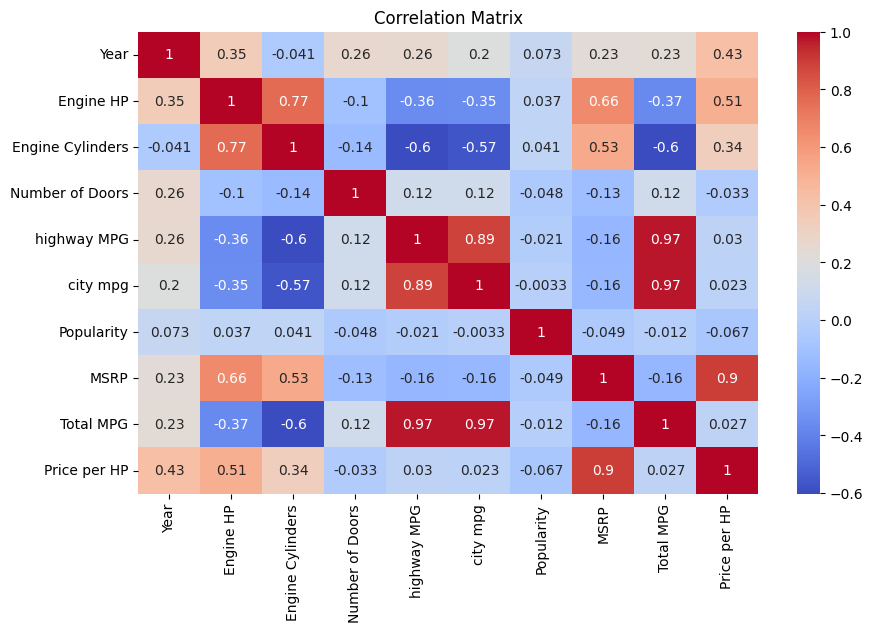
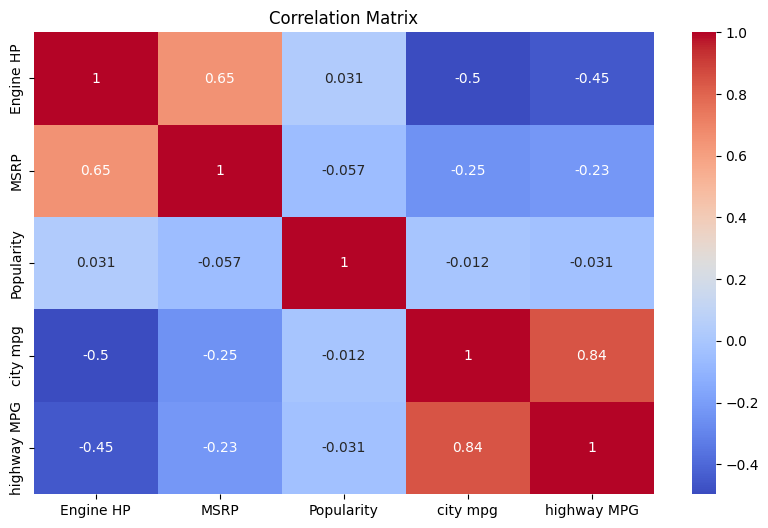
Correlation heatmap updated

diff --git a/report/car_analysis_report.html b/report/car_analysis_report.html
@@ -221,11 +221,11 @@
     <h3>Key Findings</h3>
     <table style="margin-top:10px">
       <tr><th>Variable Pair</th><th>Correlation</th><th>Strength</th><th>Interpretation</th></tr>
-      <tr><td>city mpg ↔ highway MPG</td><td>+0.887</td><td><span class="corr-strong">Strong ✓</span></td><td>Cars efficient in the city are nearly always efficient on highways — both measure the same underlying fuel efficiency</td></tr>
-      <tr><td>Engine HP ↔ MSRP</td><td>+0.661</td><td><span class="corr-strong">Moderate–Strong ✓</span></td><td>More powerful engines command higher prices, though brand prestige adds noise</td></tr>
-      <tr><td>Engine HP ↔ city mpg</td><td>−0.354</td><td><span class="corr-mod">Moderate ↓</span></td><td>Higher horsepower trades off against fuel efficiency — performance vs economy</td></tr>
-      <tr><td>Engine HP ↔ highway MPG</td><td>−0.360</td><td><span class="corr-mod">Moderate ↓</span></td><td>Same trade-off visible on highways</td></tr>
-      <tr><td>MSRP ↔ city mpg</td><td>−0.158</td><td><span class="corr-weak">Weak ↓</span></td><td>Expensive cars tend to be slightly less fuel-efficient, but luxury EVs weaken this relationship</td></tr>
+      <tr><td>city mpg ↔ highway MPG</td><td>+0.843</td><td><span class="corr-strong">Strong ✓</span></td><td>Cars efficient in the city are nearly always efficient on highways — both measure the same underlying fuel efficiency</td></tr>
+      <tr><td>Engine HP ↔ MSRP</td><td>+0.654</td><td><span class="corr-strong">Moderate–Strong ✓</span></td><td>More powerful engines command higher prices, though brand prestige adds noise</td></tr>
+      <tr><td>Engine HP ↔ city mpg</td><td>−0.497</td><td><span class="corr-mod">Moderate ↓</span></td><td>Higher horsepower trades off against fuel efficiency — performance vs economy</td></tr>
+      <tr><td>Engine HP ↔ highway MPG</td><td>−0.451</td><td><span class="corr-mod">Moderate ↓</span></td><td>Same trade-off visible on highways</td></tr>
+      <tr><td>MSRP ↔ city mpg</td><td>−0.247</td><td><span class="corr-weak">Weak ↓</span></td><td>Expensive cars tend to be slightly less fuel-efficient, but luxury EVs weaken this relationship</td></tr>
       <tr><td>Popularity ↔ any variable</td><td>≈ 0.00</td><td><span class="corr-weak">None</span></td><td>Popularity is essentially uncorrelated with all numeric features — it reflects brand/marketing dynamics, not vehicle specs</td></tr>
     </table>
   </div>